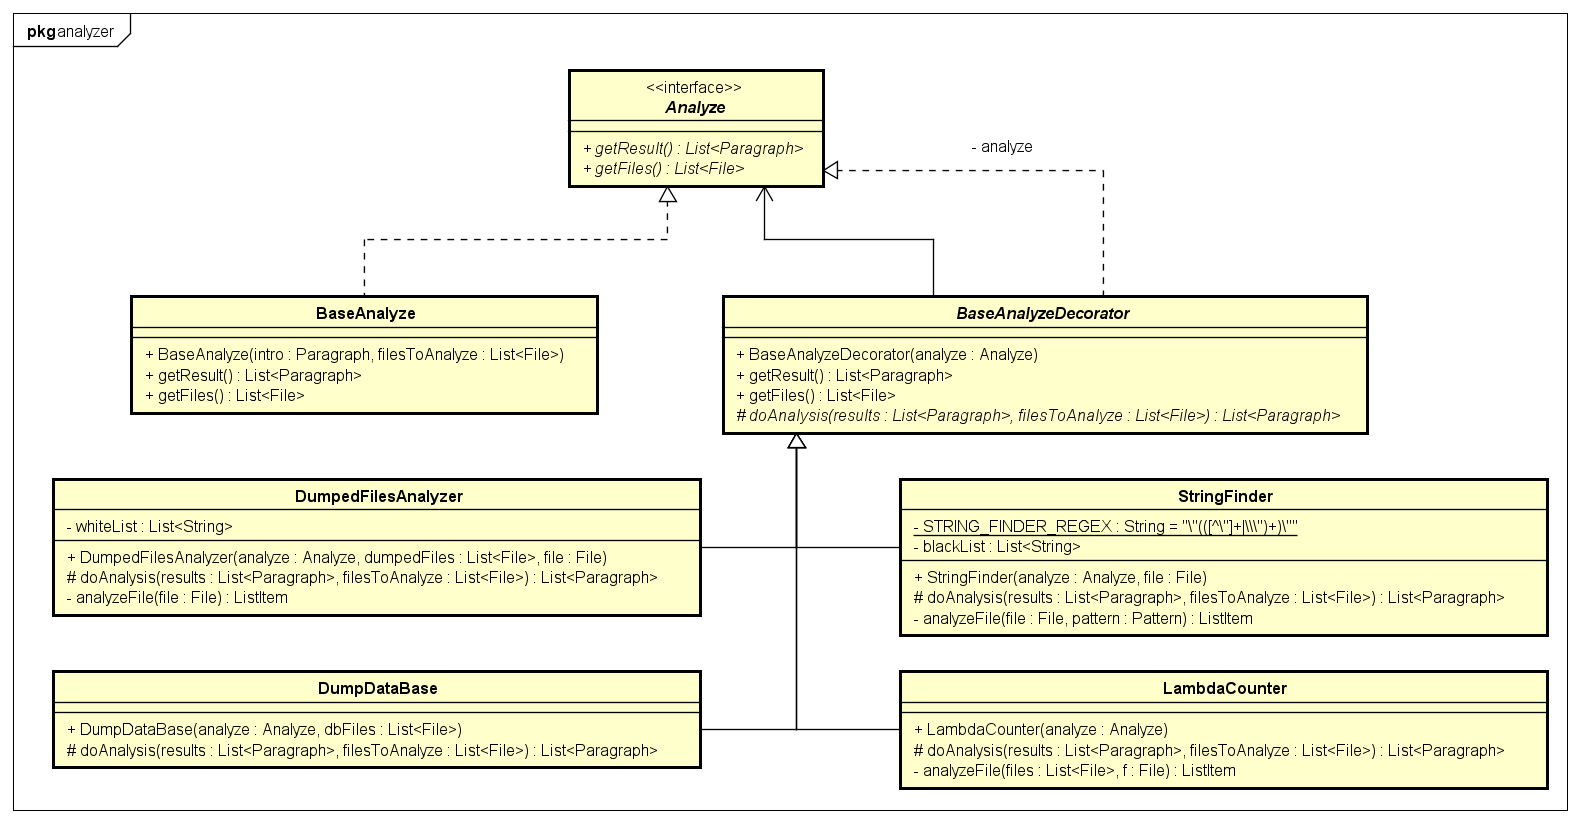
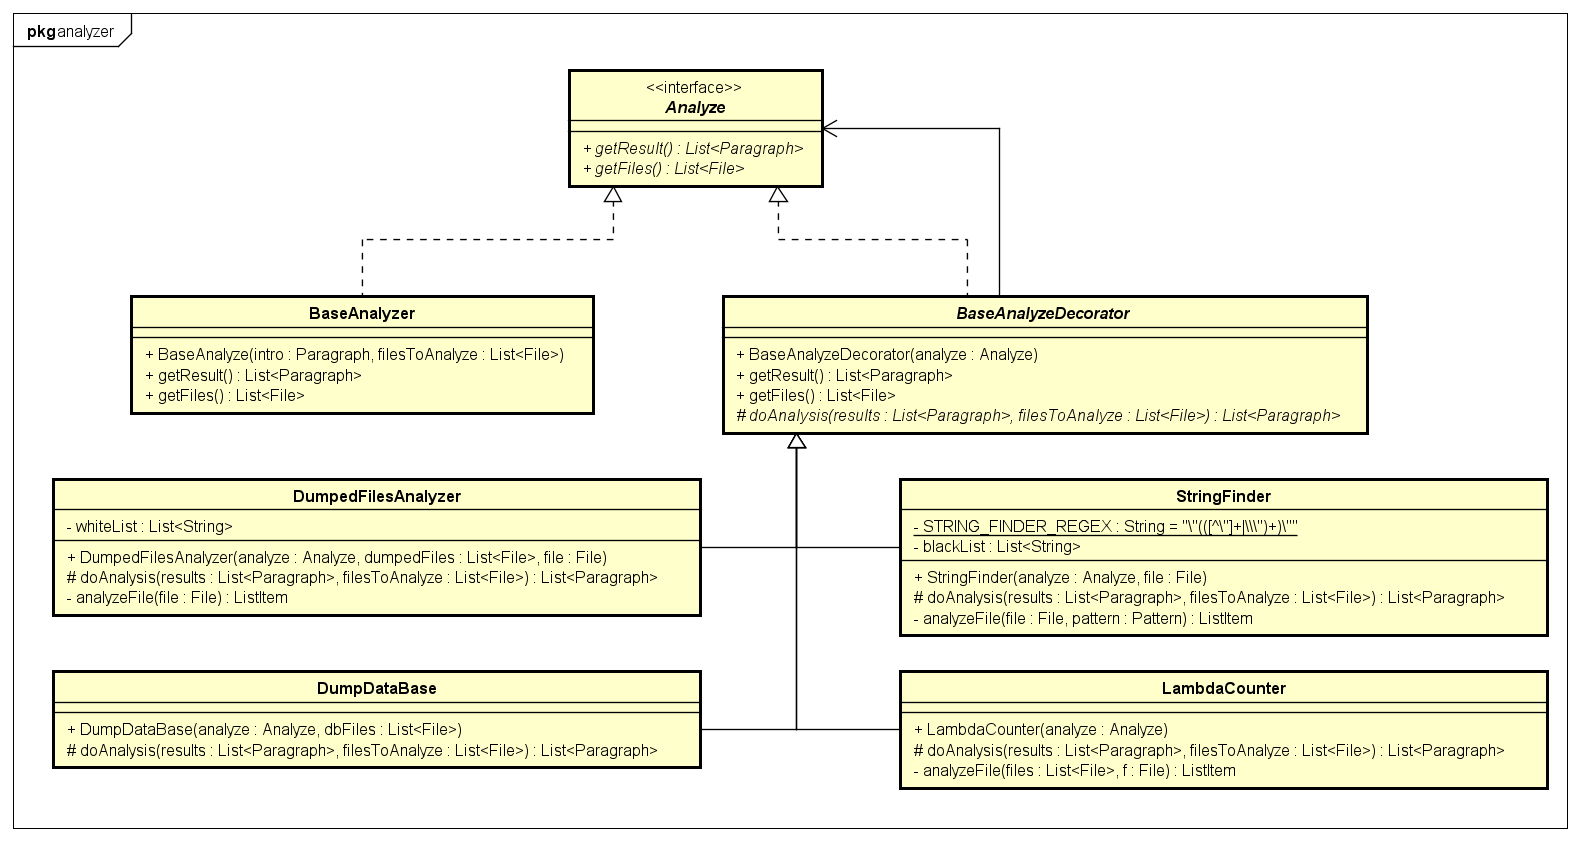
aggiunto il modello di sviluppo adottato, e aggiornato i diagrammi

diff --git a/capitoli/4_1_casi_uso.tex b/capitoli/4_1_casi_uso.tex
@@ -1,5 +1,5 @@
 \section{Casi d'uso}\label{sec:casi-d'uso}
-\subsection{UC-1 Selezione file}\label{subsec:uc-1-selezione-file}
+\subsection*{UC-1 Selezione file}\label{subsec:uc-1-selezione-file}
 \begin{itemize}
     \item \textbf{attori:} utente generico;
     \item \textbf{descrizione:} serve per permettere all'utente di selezionare il file APK da analizzare;
@@ -11,7 +11,7 @@
         \item l'utente conferma la selezione del file.
     \end{itemize}
 \end{itemize}
-\subsection{UC-2 Avvio decompilazione}\label{subsec:uc-2-avvio-decompilazione}
+\subsection*{UC-2 Avvio decompilazione}\label{subsec:uc-2-avvio-decompilazione}
 \begin{itemize}
     \item \textbf{attori:} utente generico;
     \item \textbf{descrizione:} l'utente deve avviare la decompilazione del file APK;
@@ -28,7 +28,7 @@
     \end{itemize}
 \end{itemize}
 
-\subsection{UC-3 Visualizzazione errore di decompilazione}\label{subsec:uc-3-visualizzazione-errore-di-decompilazione}
+\subsection*{UC-3 Visualizzazione errore di decompilazione}\label{subsec:uc-3-visualizzazione-errore-di-decompilazione}
 \begin{itemize}
     \item \textbf{attori:} utente generico;
     \item \textbf{descrizione:} la decompilazione del file APK potrebbe generare degli errori;
@@ -39,7 +39,7 @@
         \item l'utente visualizza il messaggio di errore;
     \end{itemize}
 \end{itemize}
-\subsection{UC-4 Installazione APK decompilato}\label{subsec:uc-4-installazione-apk-decompilato}
+\subsection*{UC-4 Installazione APK decompilato}\label{subsec:uc-4-installazione-apk-decompilato}
 \begin{itemize}
     \item \textbf{attori:} utente generico;
     \item \textbf{descrizione:} permette all'utente d'installare l'apk, decompilato, manomesso e ricompilato, su un AVD;
@@ -52,7 +52,7 @@
         \item l'utente visualizza un messaggio d'installazione avvenuto con successo;
     \end{itemize}
 \end{itemize}
-\subsubsection{UC-4.1 Selezione AVD}\label{subsubsec:uc-4.1-selezione-avd}
+\subsubsection*{UC-4.1 Selezione AVD}\label{subsubsec:uc-4.1-selezione-avd}
 \begin{itemize}
     \item \textbf{attori:} utente generico;
     \item \textbf{descrizione:} serve per permettere all'utente di selezionare un'AVD presente nel proprio computer;
@@ -76,7 +76,7 @@
     \caption{UC-4.1 Selezione AVD}
 \end{figure}
 
-\subsection{UC-5 Visualizzazione messaggio nessun AVD rilevato} \label{subsec:uc-5-visualizzazione-messaggio-nessun-avd-rilevato}
+\subsection*{UC-5 Visualizzazione messaggio nessun AVD rilevato} \label{subsec:uc-5-visualizzazione-messaggio-nessun-avd-rilevato}
 \begin{itemize}
     \item \textbf{attori:} utente generico;
     \item \textbf{descrizione:} quando non sono presenti nessun AVD o il tool non è riuscito a rilevarne, viene mostrato un messaggio all'utente;
@@ -87,7 +87,7 @@
         \item l'utente visualizza il messaggio;
     \end{itemize}
 \end{itemize}
-\subsection{UC-6 Errore durante avvio dell'AVD}\label{subsec:uc-6-errore-durante-avvio-dell'avd}
+\subsection*{UC-6 Errore durante avvio dell'AVD}\label{subsec:uc-6-errore-durante-avvio-dell'avd}
 \begin{itemize}
     \item \textbf{attori:} utente generico;
     \item \textbf{descrizione:} serve a mostrare all'utente gli eventuali errori durante l'avvio dell'AVD;
@@ -98,7 +98,7 @@
         \item l'utente visualizza il messaggio d'errore;
     \end{itemize}
 \end{itemize}
-\subsection{UC-7 Dump dello storage interno}\label{subsec:uc-6-dump-dello-storage-interno}
+\subsection*{UC-7 Dump dello storage interno}\label{subsec:uc-6-dump-dello-storage-interno}
 \begin{itemize}
     \item \textbf{attori:} utente generico;
     \item \textbf{descrizione:} nel caso l'utente volesse una copia dei dati interni dell'applicativo, ha bisogno di fare il dump;
@@ -110,7 +110,7 @@
         \item l'utente seleziona il path dove collocare i dati;
     \end{itemize}
 \end{itemize}
-\subsection{UC-8 Decodifica del codice}\label{subsec:uc-8-decodifica-del-codice}
+\subsection*{UC-8 Decodifica del codice}\label{subsec:uc-8-decodifica-del-codice}
 \begin{itemize}
     \item \textbf{attori:} utente generico;
     \item \textbf{descrizione:} durante la decompilazione dell'APK vengono creati dei file .dex che contengono il codice sorgente dell'APK, e questo caso d'uso serve per permettere all'utente di ottenere il codice sorgente;
@@ -123,7 +123,7 @@
         \item l'utente ha salvato il codice sorgente ottenuto.
     \end{itemize}
 \end{itemize}
-\subsubsection{UC-8.1 Avvio decodifica}
+\subsubsection*{UC-8.1 Avvio decodifica}
 \begin{itemize}
     \item \textbf{attori:} utente generico;
     \item \textbf{descrizione:} serve all'utente per avviare la decodifica dei file .dex;
@@ -134,7 +134,7 @@
         \item l'utente seleziona la funzionalità di decodifica dei file .dex;
     \end{itemize}
 \end{itemize}
-\subsubsection{UC-8.2 Salvataggio del codice decodificato}
+\subsubsection*{UC-8.2 Salvataggio del codice decodificato}
 \begin{itemize}
     \item \textbf{attori:} utente generico;
     \item \textbf{descrizione:} serve all'utente per salvare i codici sorgenti decodificati;
@@ -156,7 +156,7 @@
 
 
 
-\subsection{UC-9 Visualizzazione errore decodifica}\label{subsec:uc-9-visualizzazione-errore-decodifica}
+\subsection*{UC-9 Visualizzazione errore decodifica}\label{subsec:uc-9-visualizzazione-errore-decodifica}
 \begin{itemize}
     \item \textbf{attori:} utente generico;
     \item \textbf{descrizione:} durante la decodifica dei .dex possono sorgere molteplici errori;
@@ -174,7 +174,7 @@
     \caption{Casi d'uso 1 a 12}
 \end{figure}
 
-\subsection{UC-10 Firmare l'APK ricompilato}\label{subsec:uc-10-firmare-l'apk-ricompilato}
+\subsection*{UC-10 Firmare l'APK ricompilato}\label{subsec:uc-10-firmare-l'apk-ricompilato}
 \begin{itemize}
     \item \textbf{attori:} utente generico;
     \item \textbf{descrizione:} dopo la ricompilazione si può firmare l'APK;
@@ -191,7 +191,7 @@
         \item UC-11 Visualizzazione credenziali keystore errati;
     \end{itemize}
 \end{itemize}
-\subsubsection{UC-10.1 Selezione keystore}\label{subsubsec:uc-10.1-selezione-keystore}
+\subsubsection*{UC-10.1 Selezione keystore}\label{subsubsec:uc-10.1-selezione-keystore}
 \begin{itemize}
     \item \textbf{attori:} utente generico;
     \item \textbf{descrizione:} permettere all'utente di selezionare il keystore da utilizzare per firmare l'APK;
@@ -207,7 +207,7 @@
         \item UC-10.2 Visualizzazione messaggio file selezionato non valido;
     \end{itemize}
 \end{itemize}
-\subsubsection{UC-10.2 Visualizzazione messaggio file selezionato non valido}
+\subsubsection*{UC-10.2 Visualizzazione messaggio file selezionato non valido}
 \begin{itemize}
     \item \textbf{attori:} utente generico;
     \item \textbf{descrizione:} l'utente, al quale è stato chiesto di selezionare un file di tipo keystore, potrebbe selezionare un file non valido;
@@ -218,7 +218,7 @@
         \item l'utente visualizza il messaggio d'errore.
     \end{itemize}
 \end{itemize}
-\subsubsection{UC-10.3 Inserimento Alias}
+\subsubsection*{UC-10.3 Inserimento Alias}
 \begin{itemize}
     \item \textbf{attori:} utente generico;
     \item \textbf{descrizione:} l'utente deve inserire l'alias della chiave da utilizzare durante la firma dell'APK;
@@ -229,7 +229,7 @@
         \item l'utente inserisce l'alias della chiave da utilizzare per firmare l'APK;
     \end{itemize}
 \end{itemize}
-\subsubsection{UC-10.4 Inserimento password}
+\subsubsection*{UC-10.4 Inserimento password}
 \begin{itemize}
     \item \textbf{attori:} utente generico;
     \item \textbf{descrizione:} l'utente deve inserire la password del keystore da utilizzare durante la firma dell'APK;
@@ -246,7 +246,7 @@
     \caption{Sotto-casi d'uso UC-10 Firmare l'APK ricompilato}
 \end{figure}
 
-\subsection{UC-11 Visualizzazione credenziali keystore errati}\label{subsec:uc-11-visualizzazione-credenziali-keystore-errati}
+\subsection*{UC-11 Visualizzazione credenziali keystore errati}\label{subsec:uc-11-visualizzazione-credenziali-keystore-errati}
 \begin{itemize}
     \item \textbf{attori:} utente generico;
     \item \textbf{descrizione:} per firmare l'APK l'utente deve inserire dei credenziali, e quando quest'ultimi sono errati viene mostrato un messaggio di errore;
@@ -258,7 +258,7 @@
     \end{itemize}
 \end{itemize}
 
-\subsection{UC-12 Visualizzazione messaggio file non valido}\label{subsec:uc-12-visualizzazione-messaggio-file-non-valido}
+\subsection*{UC-12 Visualizzazione messaggio file non valido}\label{subsec:uc-12-visualizzazione-messaggio-file-non-valido}
 \begin{itemize}
     \item \textbf{attori:} utente generico;
     \item \textbf{descrizione:} quando l'utente seleziona un file che non ha l'estensione APK un messaggio deve essere mostrato all'utente;
@@ -269,7 +269,7 @@
         \item l'utente visualizza il messaggio d'errore.
     \end{itemize}
 \end{itemize}
-\subsection{UC-13 Decodifica dei file \textit{.dex} in file \textit{.java}}\label{subsec:uc-13-decodifica-dei-filetextitin-filetextit}
+\subsection*{UC-13 Decodifica dei file \textit{.dex} in file \textit{.java}}\label{subsec:uc-13-decodifica-dei-filetextitin-filetextit}
 \begin{itemize}
     \item \textbf{attori:} utente generico;
     \item \textbf{descrizione:} dall'APK ricompilato si ottengono dei file \textit{.dex} che possono essere convertiti in \textit{.class} e quindi in \textit{.java};
@@ -281,7 +281,7 @@
     \end{itemize}
 \end{itemize}
 
-\subsection{UC-14 Analisi del codice \textit{.java}}\label{subsec:uc-14-analisi-del-codicetextit}
+\subsection*{UC-14 Analisi del codice \textit{.java}}\label{subsec:uc-14-analisi-del-codicetextit}
 \begin{itemize}
     \item \textbf{attori:} attore generico;
     \item \textbf{descrizione:} dopo aver ottenuto i file \textit{.java} eseguendo il caso d'uso UC-13, si potr\`{a} effettuare dell'analisi sul codice;
@@ -303,7 +303,7 @@
 
 
 
-\subsection{UC-15 avvio AVD}\label{subsec:uc-15-avvio-avd}
+\subsection*{UC-15 avvio AVD}\label{subsec:uc-15-avvio-avd}
 \begin{itemize}
     \item \textbf{attori:} attore generico;
     \item \textbf{descrizione:} serve per avviare un'avd per poter eseguire l'applicazione;
@@ -318,7 +318,7 @@
     \end{itemize}
     \item \textbf{estensione:} UC-5 Visualizzazione messaggio nessun AVD rilevato.
 \end{itemize}
-\subsection{UC-16 avvio AVD senza proxy}\label{subsec:uc-16-avvio-avd-senza-proxy}
+\subsection*{UC-16 avvio AVD senza proxy}\label{subsec:uc-16-avvio-avd-senza-proxy}
 \begin{itemize}
     \item \textbf{attori:} attore generico;
     \item \textbf{descrizione:} quando l'attore decide che non vuole avviare l'AVD modificando le impostazioni di proxy, viene eseguito questo caso d'uso;
@@ -332,7 +332,7 @@
         \item l'attore seleziona la voce avvia AVD.
     \end{itemize}
 \end{itemize}
-\subsection{UC-17 avvio AVD con proxy}\label{subsec:uc-16-avvio-avd-con-proxy}
+\subsection*{UC-17 avvio AVD con proxy}\label{subsec:uc-16-avvio-avd-con-proxy}
 \begin{itemize}
     \item \textbf{attori:} attore generico;
     \item \textbf{descrizione:} quando l'attore decide che non vuole avviare l'AVD modificando le impostazioni di proxy, viene eseguito questo caso d'uso;
@@ -352,7 +352,7 @@
     \includegraphics[width=10cm, height=8cm]{./immagini/usecase/uc_17.png}
     \caption{Sotto casi d'uso del caso d'uso 17}
 \end{figure}
-\subsection{UC-18 Inizio registrazione traffico di rete}\label{subsec:uc-18-inizio-registrazione-traffico-di-rete}
+\subsection*{UC-18 Inizio registrazione traffico di rete}\label{subsec:uc-18-inizio-registrazione-traffico-di-rete}
 \begin{itemize}
     \item \textbf{attori:} attore generico;
     \item \textbf{descrizione:} quando l'utente vuole registrare le attività di rete effettuate dall'AVD eseguendo l'applicazione, può utilizzare questa funzionalità;
@@ -370,7 +370,7 @@
     \caption{Casi d'uso 13 a 18}
 \end{figure}
 
-%\subsection{UC-}
+%\subsection*{UC-}
 %\begin{itemize}
 %    \item \textbf{attori:} attore generico;
 %    \item \textbf{descrizione:}

diff --git a/capitoli/5_progettazione_codifica.tex b/capitoli/5_progettazione_codifica.tex
@@ -10,8 +10,7 @@
 \intro{In questo capitolo vengono presentate le tecnologie e gli strumenti utilizzati, il ciclo di sviluppo del software adottato e i design pattern utilizzati.}\\
 
 %**************************************************************
-\section{Tecnologie}
-\label{sec:tecnologie}
+\section{Tecnologie}\label{sec:tecnologie}
 
 Di seguito viene data una panoramica delle tecnologie e degli strumenti utilizzati.
 
@@ -30,13 +29,19 @@ Questo strumento permette di trasformare i file \textit{.dex} in formato \textit
 \subsection*{Java}
 In informatica, Java è un linguaggio di programmazione ad alto livello, orientato agli oggetti e tipizzazione statica, che si appoggia sull'omonima piattaforma software di esecuzione, specificamente progettato per essere il più possibile indipendente dalla piattaforma hardware di esecuzione.
 \subsection*{Json}
-JSON (JavaScript Object Notation) è un semplice formato per lo scambio di dati. Per le persone è facile da leggere e scrivere, mentre per le macchine risulta facile da generare e analizzarne la sintassi.
+JSON (JavaScript Object Notation) è un semplice formato per lo scambio di dati.
+Per le persone è facile da leggere e scrivere, mentre per le macchine risulta facile da generare e analizzarne la sintassi.
 JSON è basato su due strutture:
 \begin{itemize}
     \item un insieme di coppie nome/valore, in diversi linguaggi, questo è realizzato come un oggetto, un record, uno struct, un dizionario, una tabella hash, un elenco di chiavi o un array associativo.
     \item un elenco ordinato di valori, nella maggior parte dei linguaggi questo si realizza con un array, un vettore o una sequenza.
 \end{itemize}
 \url{https://www.json.org/json-it.html}
+
+\subsection*{XPath}\label{subsec:xpath}
+In informatica XPath è un linguaggio, parte della famiglia XML, che permette di individuare i nodi all'interno di un documento XML. Le espressioni XPath, a differenza delle espressioni XML, non servono a identificare la struttura di un documento, bensì a localizzarne con precisione i nodi.
+
+
 \section{Strumenti}\label{sec:strumenti}
 
 \subsection*{Intellij IDEA}
@@ -61,7 +66,14 @@ Questa è un'istanza privata dell'azienda Imola Informatica S.p.A.
 \url{https://git.imolinfo.it/users/sign_in}
 %**************************************************************
 \section{Ciclo di vita del software}\label{sec:ciclo-vita-software}
-
+Il modello adottato per lo sviluppo del progetto è il modello incrementale, permettendo così di suddividere la durata del progetto in diversi incrementi, in ognuno dei quali sono stati definiti degli obiettivi/requisiti da raggiungere.
+Inoltre, tale modello di sviluppo ha come conseguenza i seguenti vantaggi:
+\begin{itemize}
+    \item assegnare diverse priorità agli obiettivi da raggiungere, in modo che quelli più importanti vengano raggiunti prima;
+    \item è possibile mostrare il prodotto al termine di ogni incremento in questo modo si assicura che il risultato di ogni incremento sia consono alle aspettative del cliente;
+    \item la fase di verifica avviene ad ogni incremento in modo da garantire la correttezza del prodotto di ogni incremento;
+    \item a ogni incremento vengono aggiunte delle funzionalità corrette e funzionanti, allora il prodotto finale soddisfa i requisiti del cliente;
+\end{itemize}
 %**************************************************************
 \section{Progettazione}
 \label{sec:progettazione}
@@ -97,7 +109,7 @@ Questo package contiene degli sotto-package ognuno dei quali rappresenta un desi
 I pattern utilizzati sono
 \begin{namespacedesc}
     \classdesc{analyzer.Analyze}{È l'interfaccia di base del pattern Decorator.}
-    \classdesc{analyzer.BaseAnalyze}{È la classe dell'oggetto base che viene decorato.}
+    \classdesc{analyzer.BaseAnalyzer}{È la classe dell'oggetto base che viene decorato.}
     \classdesc{analyzer.BaseAnalyzeDecorator}{È il classe astratta del decorator di base che implementa l'interfaccia Analyze, e ha un metodo astratto \textit{doAnalysis()} che deve essere implementato dai decorator concreti.}
     \classdesc{analyzer.DumpDataBase}{È il decorator che si occupa di estrarre i contenuti dei file \textit{.db} scaricati dall'area di storage dell'app.}
     \classdesc{analyzer.DumpedFilesAnalyzer}{È il decorator che si occupa di analizzare i file dell'area di storage dell'applicazione con estensione \textit{XML} e \textit{json}, principalmente, legge il contenuto di tali file, e in base ad una whitelist, seleziona quali risultati restituire al chiamante.}
@@ -129,27 +141,34 @@ I pattern utilizzati sono
 %**************************************************************
 
 \section{Design Pattern utilizzati}\label{sec:design-pattern-utilizzati}
-Di seguito, sono elencati i design pattern utilizzati durante la creazione del tool. Per ognuno di questo, verrà fornita il diagramma delle classi e una descrizione.
-\subsection{Model View Controller}\label{subsec:model-view-controller}
-
-\subsection{Observer}\label{subsec:observer}
+Di seguito, sono elencati i design pattern utilizzati durante la creazione del tool. Per ognuno di questi, verrà fornito il diagramma delle classi e una descrizione.
+\subsection*{Model View Controller}\label{subsec:model-view-controller}
+Come pattern architetturale è stato adottato il pattern Model-View-Controller, poiché è in grado di separare la logica di presentazione dei dati dalla logica di business.
+\begin{figure}[H]
+    \centering
+    \includegraphics[width=14cm, height=8cm]{./immagini/diagrammi_uml/mvc.png}
+    \caption{Diagramma delle classi del pattern MVC}\label{fig:mvc}
+\end{figure}
+\subsection*{Observer}\label{subsec:observer}
 Il pattern observer permette di definire una dipendenza uno a molti fra oggetti, in modo tale che se un oggetto cambia il suo stato, tutti gli oggetti dipendenti da questo siano notificati e aggiornati automaticamente.\\
 Tale pattern viene applicato nel tool perché i componenti delle viste possano osservare il contenuto del modello.
 \begin{figure}[H]
     \centering
-    \includegraphics[width=14cm, height=8cm]{./immagini/diagrammi_uml/Observer.png}
+    \includegraphics[width=13cm, height=8cm]{./immagini/diagrammi_uml/Observer.png}
     \caption{Diagramma delle classi del pattern Observer}\label{fig:observer}
 \end{figure}
-\subsection{Decorator}\label{subsec:decorator}
-% todo descrivere il decorator
+\subsection*{Decorator}\label{subsec:decorator}
+Il pattern decorator è stato utilizzato per creare la parte del tool che si occupa di effettuare l'analisi del codice decompilato e dei file scaricati dall'area di storage dell'applicazione presenti nell'Android Emulator Device.
+Il vantaggio ottenuto per aver utilizzato questo pattern è quello di poter "decorare" l'oggetto base di analisi, ovvero l'istanza della classe \textit{BaseAnalyzer} con i vari decorator, un altro importante vantaggio è quello di poter aggiungere altre funzionalità di analisi facilmente nel tool, infatti, è sufficiente creare un'altra sottoclasse della classe \textit{BaseAnalyzeDecorator} quindi implementare il metodo astratto.
 \begin{figure}[H]
     \centering
-    \includegraphics[width=14cm, height=10cm]{./immagini/diagrammi_uml/Decorator.png}
+    \includegraphics[width=13cm, height=10cm]{./immagini/diagrammi_uml/Decorator.png}
     \caption{Diagramma delle classi del pattern Decorator}\label{fig:decorator}
 \end{figure}
 
-\subsection{Factory Method}\label{subsec:factory-method}
-% todo descrivere il factory method
+\subsection*{Factory Method}\label{subsec:factory-method}
+Questo pattern è stato utilizzato per poter fornire al controller dei comandi da eseguire nei processi, essendo i comandi dipendente dal sistema operativo, sono state create due classi, una per Windows chiamata \textit{WindowsCommandFactory} e una per Linux chiamata \textit{LinuxCommandFactory}.
+Allo start-up del tool, viene letta una dalla JVM una variabile chiamata \textit{os.name}, e dipendentemente da valore letto, viene deciso quale delle sottoclassi istanziare per il corretto funzionamento del tool.
 \begin{figure}[H]
     \centering
     \includegraphics[width=14cm, height=12cm]{./immagini/diagrammi_uml/CommandFactory.png}
